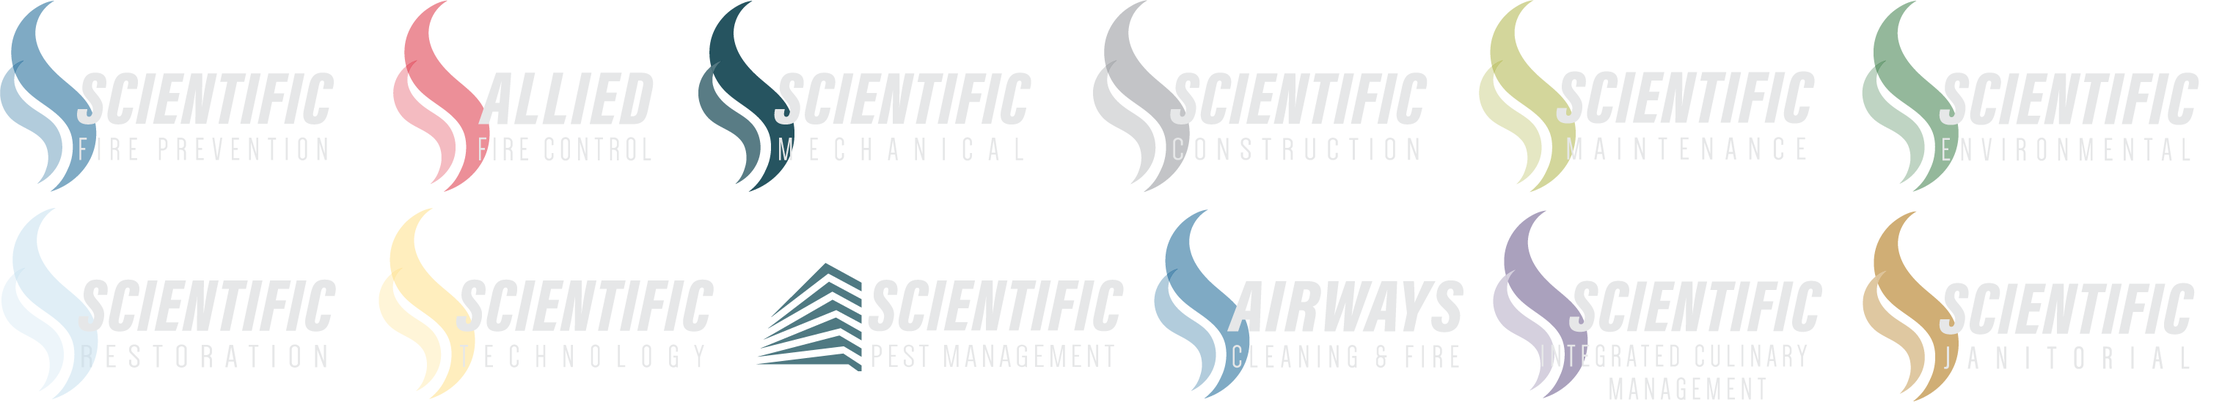
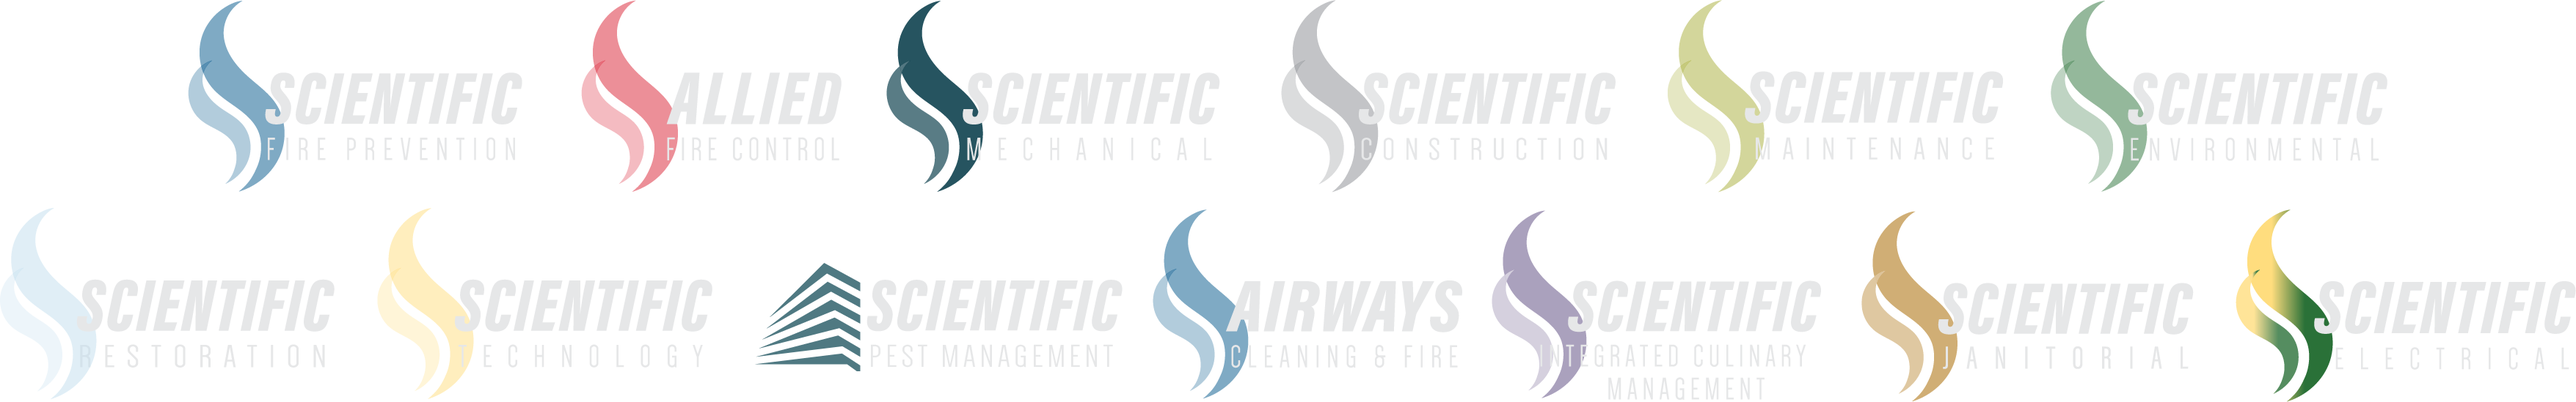
.

Changed region(s): [[0.0, 0.5264, 1.0, 0.9909], [0.0, 0.0, 0.9987, 0.4645], [0.5306, 0.5264, 0.5618, 0.5574]]

diff --git a/scientific-electrical.html b/scientific-electrical.html
@@ -1,0 +1,144 @@
+---
+layout: company
+title: Scientific Electrical
+---
+<!--
+logo
+Image
+Copy para
+Services
+Quote
+CTA
+
+scientific fire prevention
+allied fire control
+scientific mechanical
+scientific construction
+scientific maintenance
+scientific janitorial
+scientific restoration
+scientific technology
+scientific pest management
+-->
+<section class="company-info pt-20">
+    <div class="container">
+        <div class="row">
+            <div class="col-12 text-center">
+                <div class="about-info-text">
+                  <img src="assets/img/logo/scientific-electrical.png" style="max-height:200px;margin-bottom:32px;"
+                </div>
+            </div>
+        </div>
+    </div>
+</section>
+
+<section class="cta-area electrical" style="background-image:url({{site.baseurl}}assets/img/companies/electrical/electrical-header.jpg);">
+    <div class="container">
+        <div class="row">
+            <div class="col-xl-12 text-center">
+                <div class="call-to-action white-text">
+                    <br />
+                    <h3 style="margin:2em 0;">A Full-Service Electrical Contractor Providing Comprehensive Design-Build Construction Services, Maintenance, and Emergency Response</h3>
+                    <br />
+                </div>
+            </div>
+        </div>
+    </div>
+</section>
+
+<section class="about-info pt-100">
+    <div class="container">
+        <div class="row">
+          <div class="col-12 text-center">
+              <div class="about-info-text">
+                  <p class="text-left">As a diversified full service electrical contractor, Scientific Electrical provides comprehensive design-build construction services, maintenance, and emergency response. We bring experience, expertise, and a stellar reputation on all projects.</p>
+              </div>
+          </div>
+        </div>
+        <div class="row">
+          <div class="col-12 text-center">
+            <h2 class="underline-header">Services</h2>
+          </div>
+        </div>
+        <div class="row justify-content-lg-center mb-5">
+          <div class="col-lg-auto" style="margin-top:1.5em;">
+            <p class="service">New Installations</p>
+            <p class="service">Preventative Maintenance</p>
+            <p class="service">Lighting & Control Systems</p>
+            <p class="service">Electric Vehicles</p>
+            <p class="service">Building Controls</p>
+
+
+          </div>
+          <div class="col-lg-auto" style="margin-top:1.5em;">
+            <p class="service">Utility Programs</p>
+            <p class="service">Data & Telecom</p>
+            <p class="service">Fire Alarm</p>
+            <p class="service">Smart Buildings</p>
+            <p class="service">Infrared Testing</p>
+
+          </div>
+        </div>
+        <div class="row">
+
+          <div class="col-xl-4 col-lg-4 col-md-4 col-sm-12 mb-50 text-center">
+              <img class="img-fluid" src="{{site.baseurl}}assets/img/companies/electrical/electrical-1.jpg">
+          </div>
+
+          <div class="col-xl-4 col-lg-4 col-md-4 col-sm-12 mb-50 text-center">
+              <img class="img-fluid" src="{{site.baseurl}}assets/img/companies/electrical/electrical-2.jpg">
+          </div>
+
+
+          <div class="col-xl-4 col-lg-4 col-md-4 col-sm-12 mb-50 text-center">
+              <img class="img-fluid" src="{{site.baseurl}}assets/img/companies/electrical/electrical-3.jpg">
+          </div>
+
+        </div>
+    </div>
+</section>
+<section class="company-quote pt-100">
+    <div class="container">
+        <div class="row justify-content-center">
+          <div class="col-xl-6 col-lg-8 col-12">
+            <h4 class="company-quote electrical">“Scientific Electrical provided swift emergency services that kept our building running through a very difficult time.</h4>
+            <p class="company-quote-attr">-Fortune 50 Company</p>
+          </div>
+        </div>
+    </div>
+</section>
+<section class="cta-area electrical">
+    <div class="container">
+        <div class="row">
+            <div class="col-xl-12 text-center">
+                <div class="call-to-action white-text">
+                    <h3>Let's talk electrical solutions for your company.</h3>
+                    <div class="call-to-action">
+                        <a href="/contact" class="btn company-cta-btn">connect</a>
+                    </div>
+                </div>
+            </div>
+        </div>
+    </div>
+</section>
+
+<!-- <section class="grey-bg" style="background-image:url(assets/img/companies/janitorial.html)">
+    <div class="container">
+        <div class="row align-items-center">
+            <div class="col-xl-8 col-md-6">
+                <div class="breadcrumb-title sm-size">
+                    <h2>{{page.title}}</h2>
+                </div>
+            </div>
+            <div class="col-xl-4 col-md-6 text-left text-md-right">
+                <!-- <div class="breadcrumb">
+                    <ul>
+                        <li><a href="{{site.url}}">Home</a></li>
+                        <li class="text-white pl-1">Pages /</li>
+                        <li class="text-white pl-1">{{page.title}}</li>
+                    </ul>
+                </div>
+            </div>
+        </div>
+    </div>
+</section> -->

diff --git a/regional-offices.html b/regional-offices.html
@@ -35,7 +35,7 @@ title: Regional Offices
             </div>
             <div class="col-xl-4 col-md-4 text-center text-md-left mb-30">
                 <div class="regional-office">
-                    <h4>Southeast</h4>
+                    <h4>Southern Florida</h4>
                     <p>815 Shotgun Road<br>Sunrise, FL 33326</p>
                 </div>
             </div>
@@ -55,8 +55,8 @@ title: Regional Offices
             </div>
             <div class="col-xl-4 col-md-4 text-center text-md-left mb-30">
                 <div class="regional-office">
-                    <h4>Southwest</h4>
-                    <p>4100 W. Alameda Avenue #300<br>Burbank, CA 91505/p>
+                    <h4>Southern California</h4>
+                    <p>4100 W. Alameda Avenue #300<br>Burbank, CA 91505</p>
                 </div>
             </div>
             <div class="col-xl-4 col-md-4 text-center text-md-left mb-30">
@@ -66,6 +66,60 @@ title: Regional Offices
                 </div>
             </div>
         </div>
+        <div class="row">
+            <div class="col-xl-4 col-md-4 text-center text-md-left mb-30">
+                <div class="regional-office">
+                    <h4>South Atlantic</h4>    
+                    <p> 260 Peachtree Street N.W. Suite 2200<br>Atlanta, GA. 30303</p>
+                </div>
+            </div>
+            <div class="col-xl-4 col-md-4 text-center text-md-left mb-30">
+                <div class="regional-office">
+                    <h4>Midwest</h4>
+                    <p> 3200 Greenfield Road Suite<br>200 Dearborn, MI 48120</p>
+                </div>
+            </div>
+            <div class="col-xl-4 col-md-4 text-center text-md-left mb-30">
+                <div class="regional-office">
+                    <h4>Northern Florida</h4>
+                    <p>111 North Orange Ave Suite 800<br>Orlando, FL 32801</p>
+                </div>
+            </div>
+        </div>
+        <div class="row">
+            
+            <div class="col-xl-4 col-md-4 text-center text-md-left mb-30">
+                <div class="regional-office">
+                    <h4>Northern California</h4>
+                    <p>580 California Street Suite 1200<br>San Francisco, CA 94104</p>
+                </div>
+            </div>
+            <div class="col-xl-4 col-md-4 text-center text-md-left mb-30">
+                <div class="regional-office">
+                    <h4>Mountain West</h4>
+                    <p> 720 S Colorado Blvd Penthouse North<br>Denver, CO 80246</p>
+                </div>
+            </div>
+            <div class="col-xl-4 col-md-4 text-center text-md-left mb-30">
+                <div class="regional-office">
+                    <h4>Southwest</h4>
+                    <p>2701 E Camelback Road Suite 150<br>Phoenix, AZ 85016</p>
+                </div>
+            </div>
+        </div>
+        <div class="row">
+            <div class="col-xl-4 col-md-4 text-center text-md-left mb-30">
+            </div>
+            <div class="col-xl-4 col-md-4 text-center text-md-left mb-30">
+                <div class="regional-office">
+                    <h4>Mountain West</h4>
+                    <p>2825 East Cottonwood Parkway Suite 500<br>Salt Lake City, UT 84121</p>
+                </div>
+            </div>
+            <div class="col-xl-4 col-md-4 text-center text-md-left mb-30">
+            </div>
+        </div>
+
     </div>
 </section>
 <!-- contact-maps -->

diff --git a/_includes/about.html b/_includes/about.html
@@ -19,15 +19,19 @@
             </div>
         </div>
         <div class="row mt-40">
+            <div class="col-xl-12 text-center mb-40">
+                <img src="assets/img/home/inc-logo.png" style="max-height:300px;">
+            </div>
             <div class="col-xl-6 text-l-center mb-40">
-              <h3><span>#53</span> of Inc. Magazines Regionals Northeast 2024 <span>Fastest Growing Companies</span></h2>
+                <h3><span>#406</span> of Inc Magazines 5000<span>#406 Fastest Growing Private Companies in Amerca</span></h3>
+                <br>
+                <h3><span>#53</span> of Inc. Magazines Regionals Northeast 2024 <span>Fastest Growing Companies</span></h2>
             </div>
             <div class="col-xl-6 text-l-center mb-40">
               <p>We are honered to be among the Inc. magazine
                 regional list which represents the most successful
                 companies within the Northeast economy’s most
                 dynamic segment– independent small businesses.</p>
-
                 <a href="https://www.inc.com/profile/the-scientific-group">Read More</a>
             </div>
         </div>

diff --git a/companies.html b/companies.html
@@ -257,6 +257,28 @@ together to create boundless solutions for all of your needs.</p>
         </div>
     </div>
 </div>
+<div class="col-xl-4 col-lg-4 col-md-6 mb-50 ">
+    
+</div>
+<div class="col-xl-4 col-lg-4 col-md-6 mb-50 ">
+    <div class="services-box">
+        <div class="services-img">
+            <img src="assets/img/logo/scientific-electrical.png" class="img-fluid" alt="">
+        </div>
+        <div class="services-content">
+            <div class="card-title">
+                <h5>Scientific Electrical</h5>
+            </div>
+            <div class="card-text">
+                <p>EComprehensive electrical contractor services including maintenance and emergency response.</p>
+            </div>
+            <a href="scientific-electrical" class="btn">Learn More</a>
+        </div>
+    </div>
+</div>
+<div class="col-xl-4 col-lg-4 col-md-6 mb-50 ">
+   
+</div>
 
 </div>
 </div>

diff --git a/_includes/hero.html b/_includes/hero.html
@@ -5,7 +5,7 @@
                 <div class="row">
                     <div class="col-xl-12">
                         <div class="slider-content">
-                          <h1 data-animation="fadeInDown" data-delay=".2s"><span>Twelve</span> companies.</h1>
+                          <h1 data-animation="fadeInDown" data-delay=".2s"><span>Thirteen</span> companies.</h1>
                           <h1 data-animation="fadeInDown" data-delay=".2s"><span>One</span> vision.</h1>
                           <h1 data-animation="fadeInDown" data-delay=".2s">Limitless <span>solutions.</span></h1>
                         </div>

diff --git a/assets/css/style.css b/assets/css/style.css
@@ -2091,6 +2091,12 @@ blockquote {
 .company-quote.janitorial{
   border-left: 4px solid #D0AD75;
 }
+.company-info.electrical, .cta-area.electrical{
+  background-color:#29712a;
+}
+.company-quote.electrical{
+  border-left: 4px solid #ffdd7f;
+}
 .company-info.maintenance, .cta-area.maintenance{
   background-color:#d4d79b;
 }

diff --git a/_includes/navigation.html b/_includes/navigation.html
@@ -31,6 +31,8 @@
 
         <li><a href="{{site.baseurl}}scientific-janitorial">Scientific Janitorial</a></li>
 
+        <li><a href="{{site.baseurl}}scientific-electrical">Scientific Electrical</a></li>
+
 
 
 
